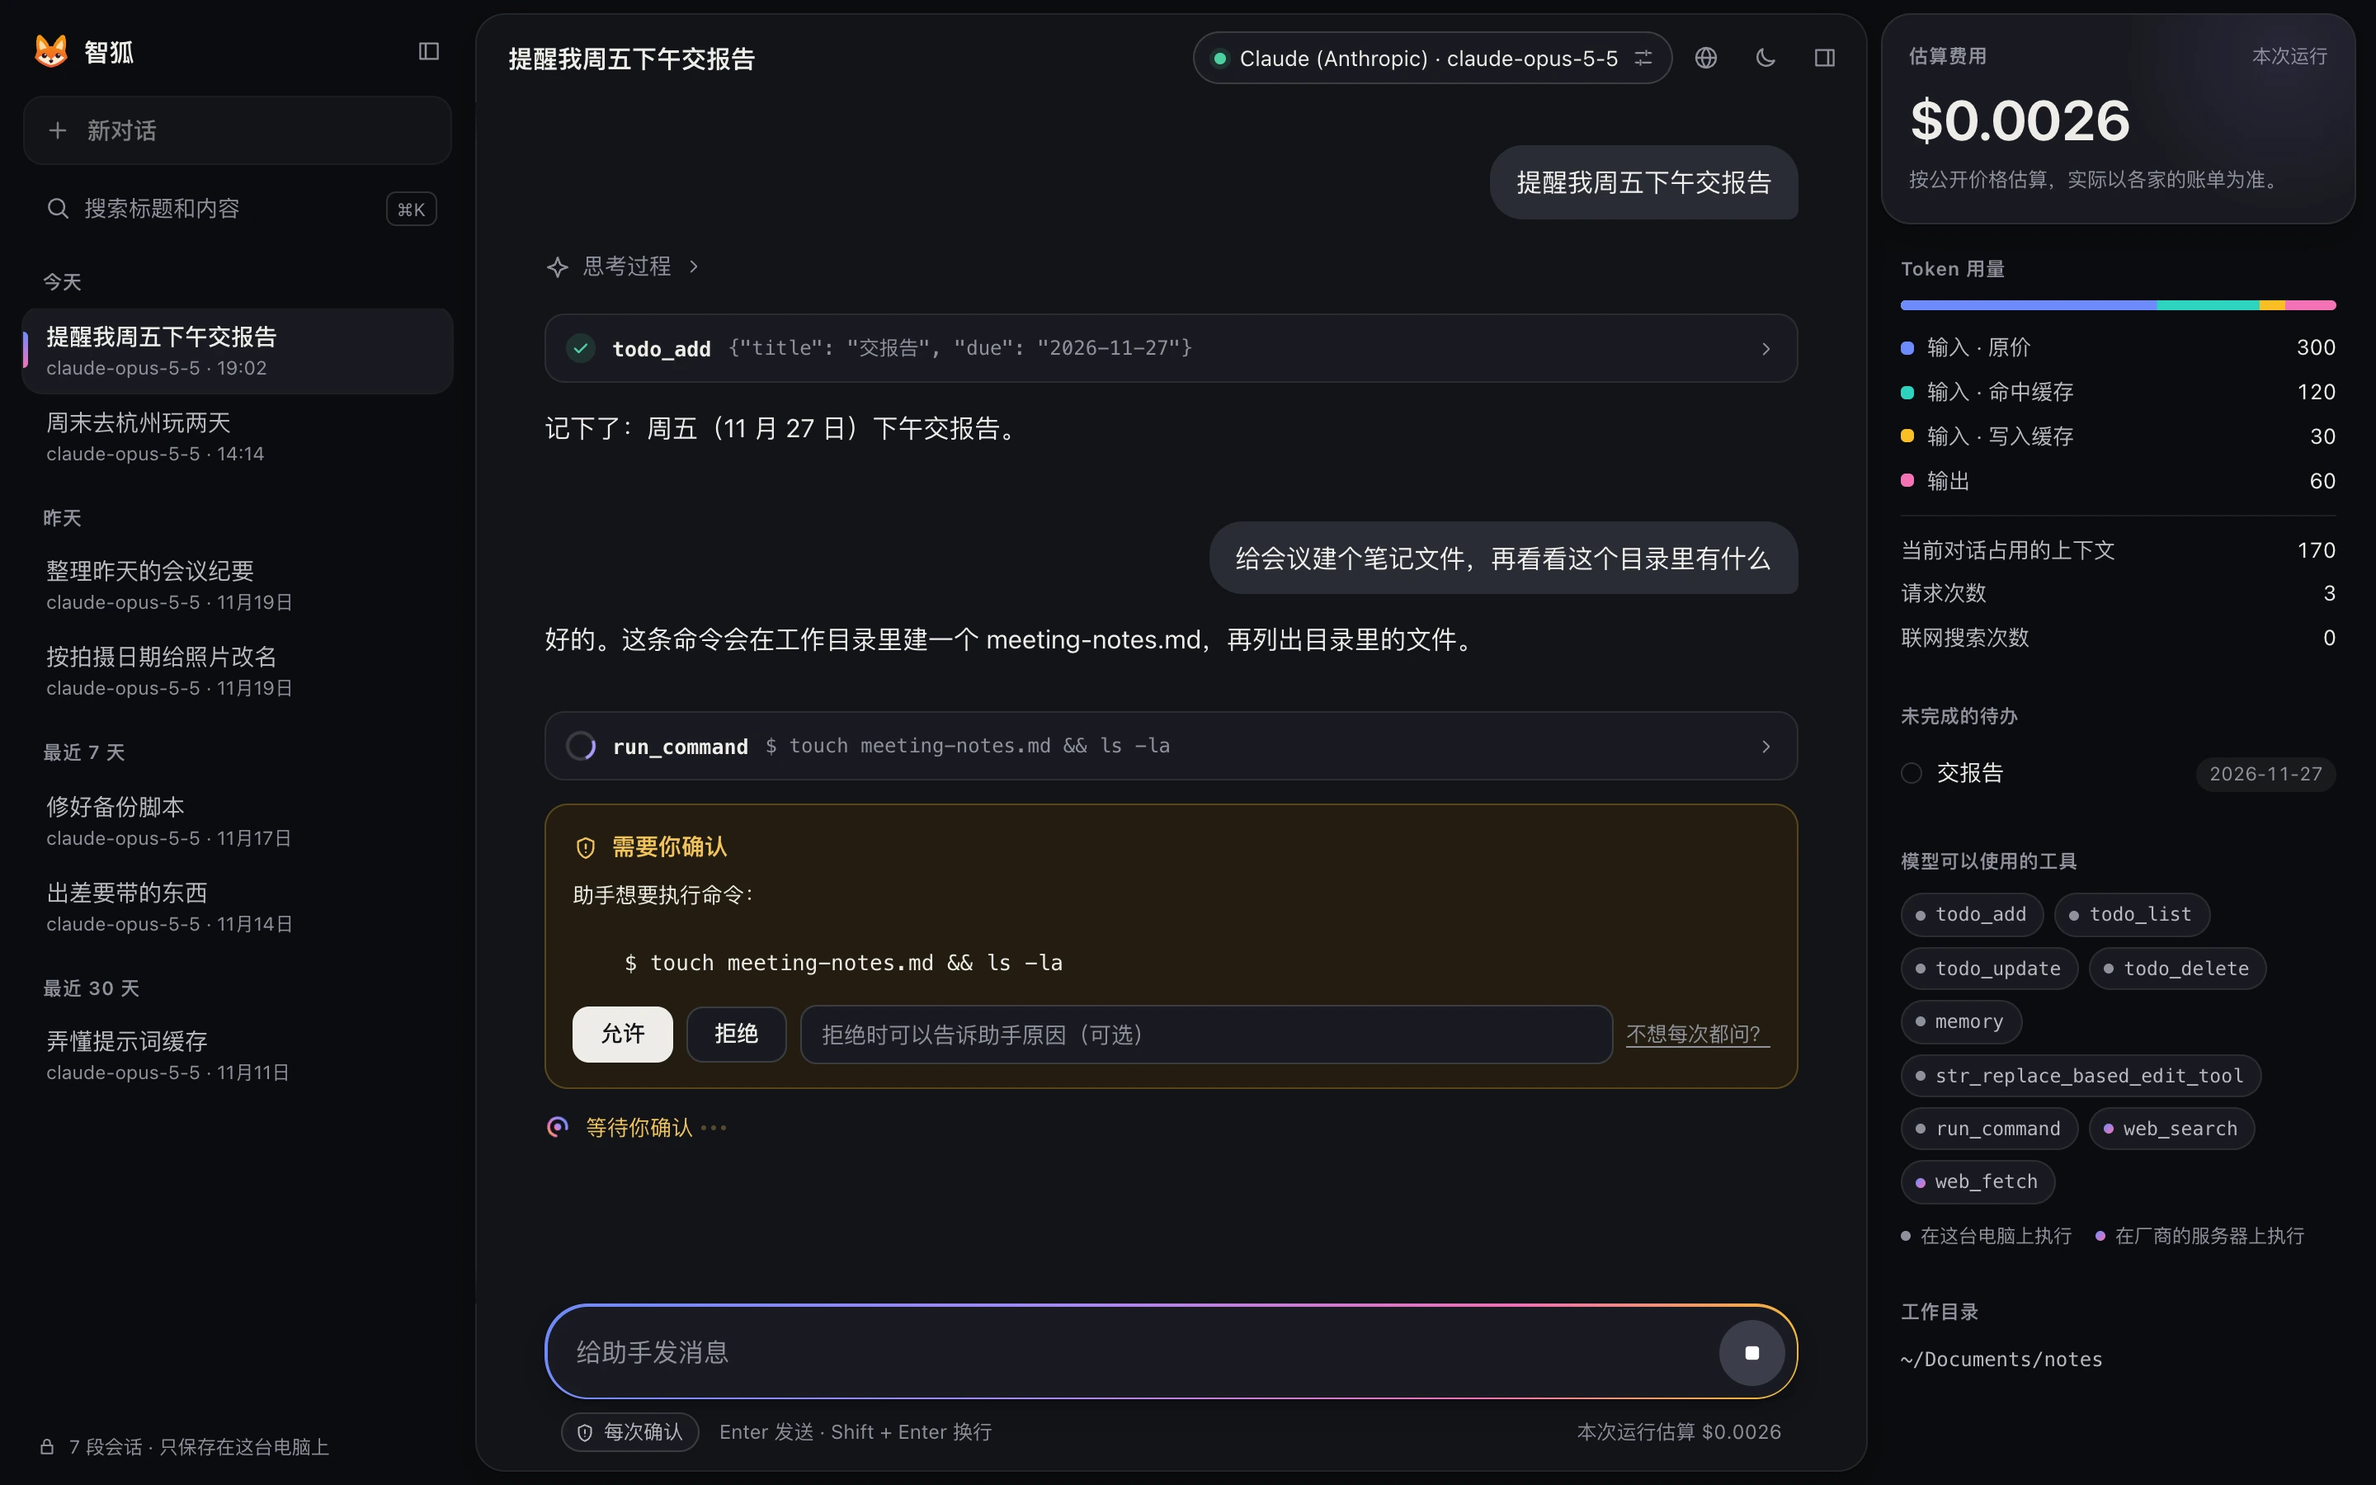
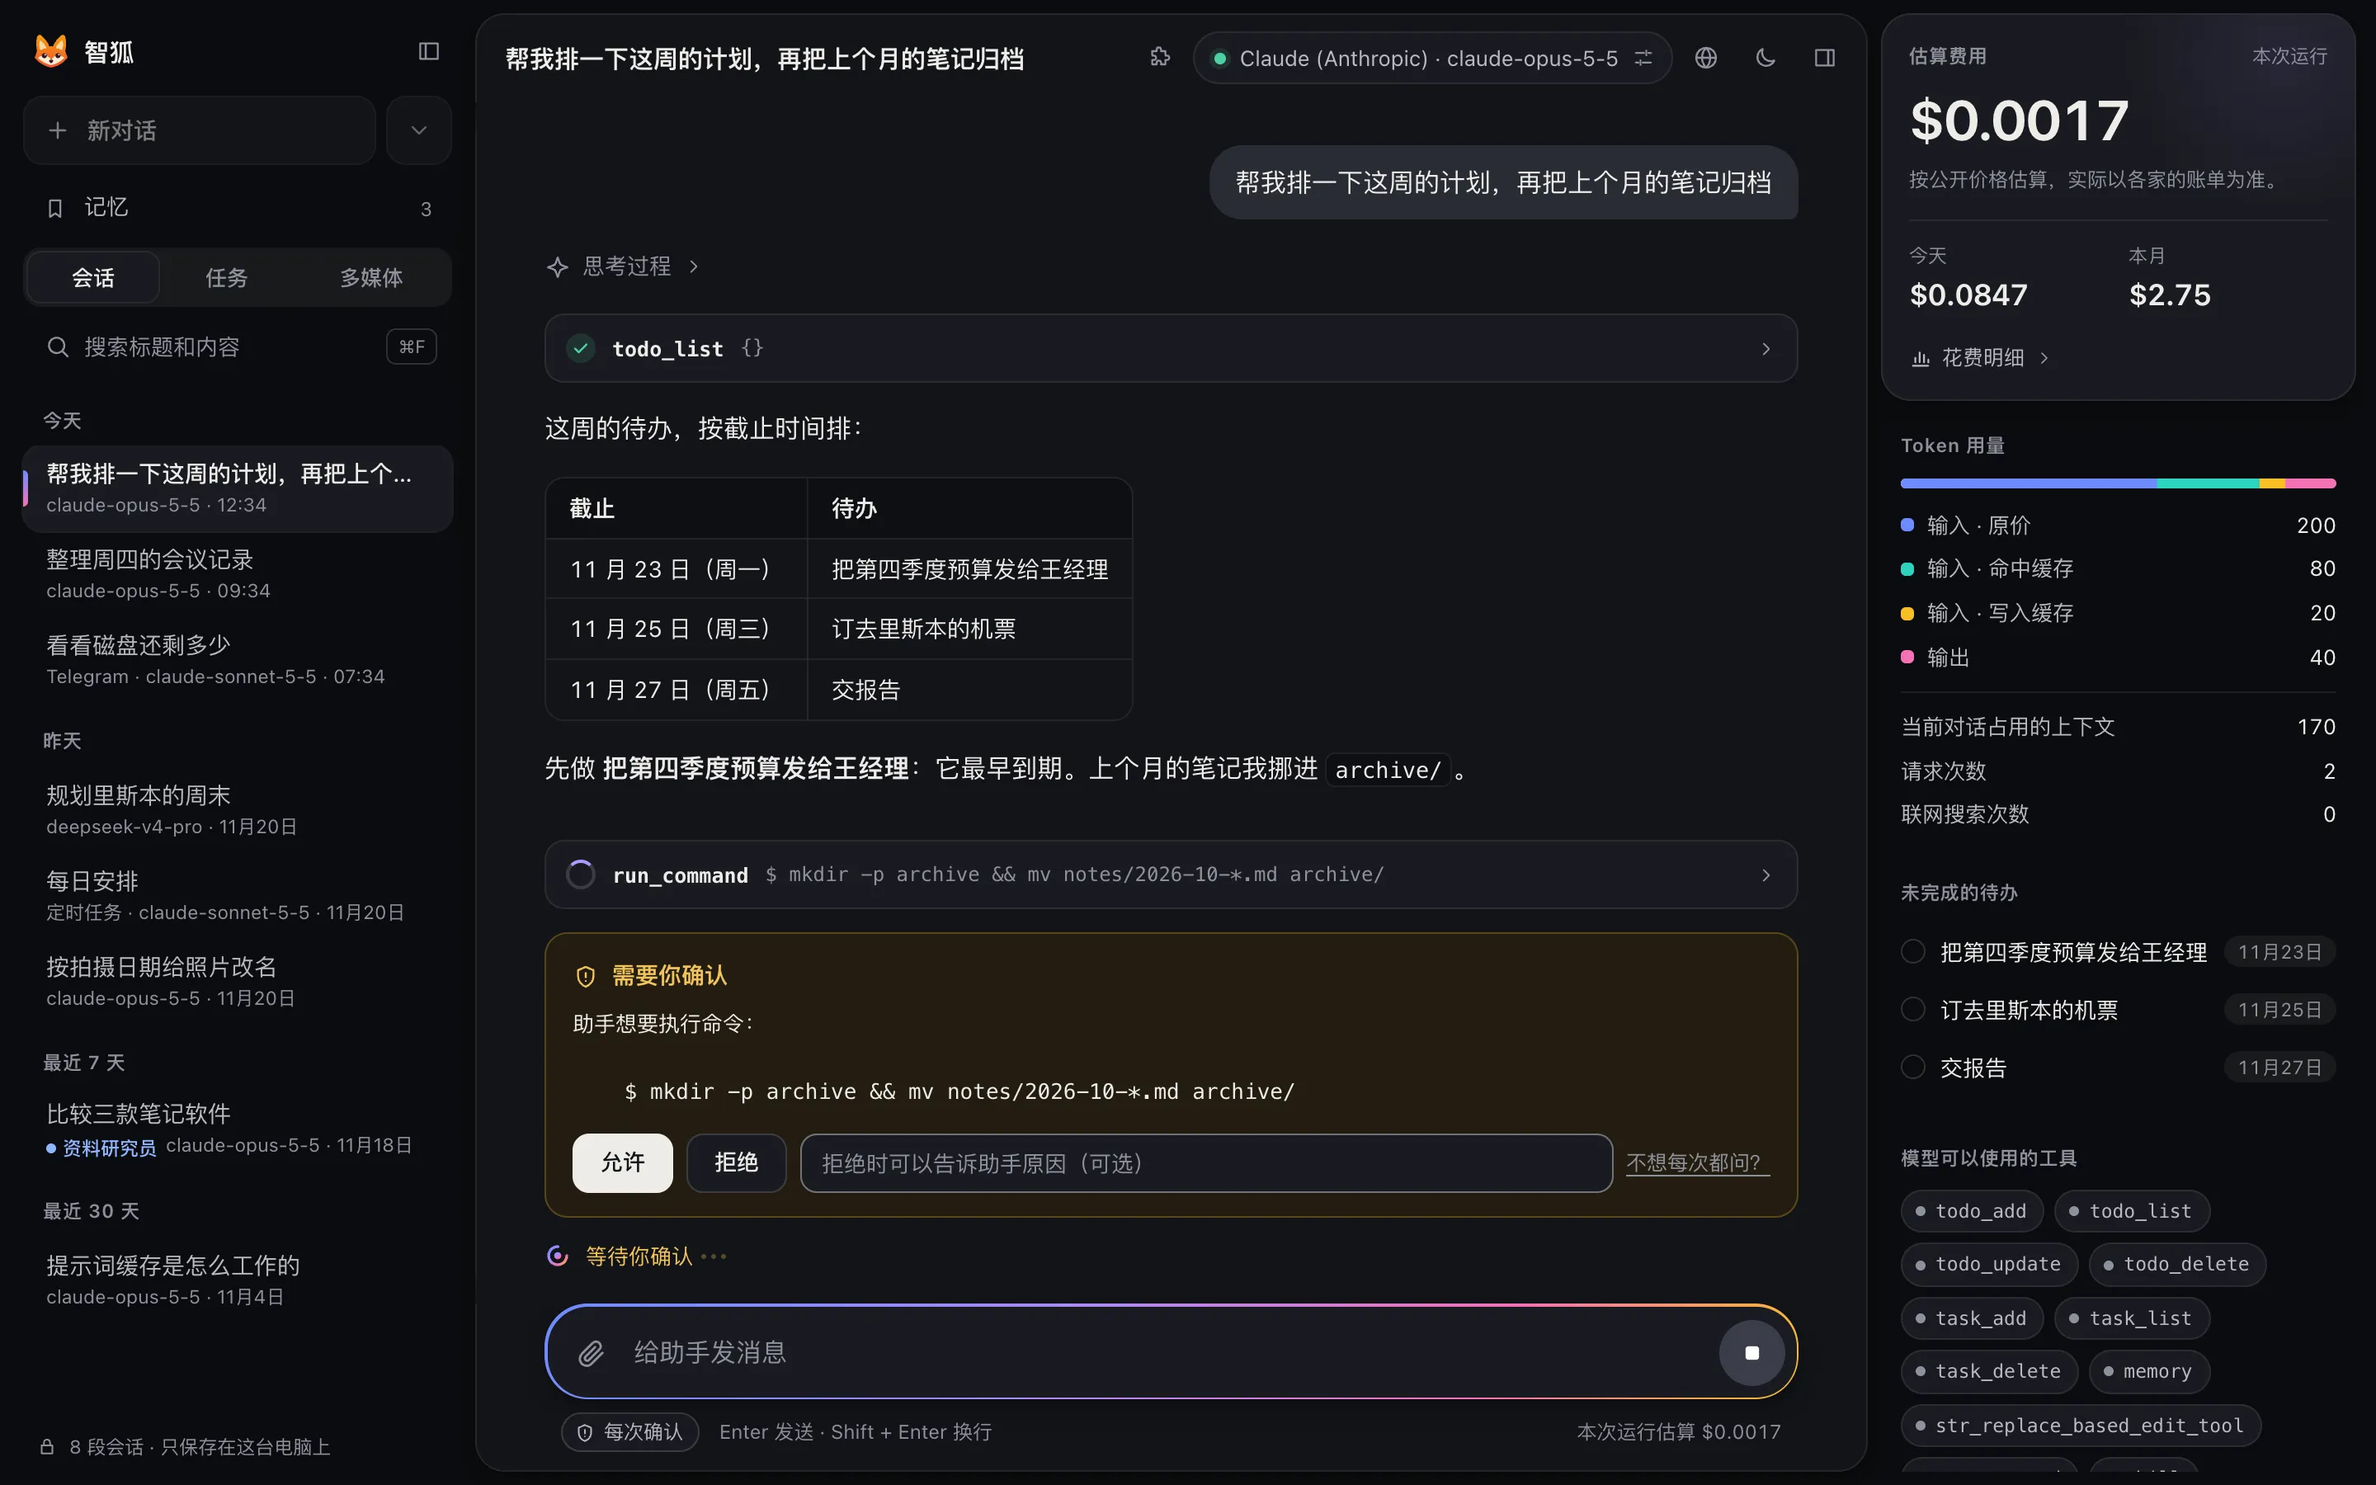
README 截图换新：主图（中英文 × 深浅色）和两张功能图
- docs/assets/screenshot-*.webp：用假模型重新截的四张主图（1440×900，2 倍）。一屏里有一句短问题、
  思考过程、一次 todo_list 工具调用、一段带表格的 Markdown 回复、一条等你批准的命令；左边的会话栏里有
  Telegram 里聊的、定时任务跑出来的、用自定义 Agent 开始的会话；右边是花费（今天、本月）和待办。
  深色也是实时截的，不是刷新重放的（原因见下面的页面小毛病）。四张一共 680 KB，比原来的 858 KB 小。
- 新加两张功能图（只有浅色，中英文各一张），两份 README 放在同样的位置：
  extensions-light-*.webp（扩展窗口的 Skill 这一页，放在"网页界面"里扩展 → Skill 之前）、
  tasks-light-*.webp（一个定时任务的详情：正在运行的这一次和运行记录，放在"定时任务和重复任务"里）。
  只截窗口本身，圆角外面是透明的。四张一共 255 KB。
- 两份 README：主图的 alt 改成新的内容；加上两张功能图的引用。
- tests/demo_scripts.py：新剧本 readme（查待办 → 带表格的 Markdown → 归档上个月笔记的命令，要你批准）。
  用户说中文就答中文，否则答英文；表格按 todo_list 真正交回的待办来画。
- tests/demo_web.py：--script 名字，没写暗号的对话也按那段剧本回答，截图时消息里不出现 [ui:…]；名字不对时报错。

截图时发现的页面小毛病（没有改，页面正在被拆分）：页面刚打开时，状态里先画会话栏、后读通道的名单
（renderConversations 在 renderChannelsState 之前），所以在聊天通道里聊过的会话第一次画出来写的是
telegram 而不是 Telegram，之后会话栏没有变化就一直不重画。

diff --git a/tests/demo_scripts.py b/tests/demo_scripts.py
@@ -12,6 +12,9 @@
   [ui:approve]  先执行一条要你批准的命令；批准了说"执行完了"，拒绝了说"不执行了"
   [ui:todo]     加一条标题很长的待办，然后交代一句
   [ui:flaky]    每一条消息第一次请求都失败（400，不会自动重试），再请求一次就回答（看"重新生成"怎么再试一次）
+  [ui:readme]   README 截图里的那段对话：查待办 → 一段带表格的 Markdown → 一条要你批准的命令（归档上个月的笔记）。
+                用户说中文就答中文，说别的就答英文；表格按 todo_list 真正交回的待办来画。截图时消息里不能有暗号，
+                所以用 `demo_web.py --script readme`：没写暗号的对话也按它回答
 
 要加新的剧本：写一个 body → 回复 的函数，放进下面的 SCRIPTS。body 是这次请求的内容（里面有整段历史）。
 """
@@ -21,6 +24,7 @@ from __future__ import annotations
 import json
 import re
 from collections.abc import Callable
+from datetime import date, timedelta
 
 from fake_api import failure, reply, text, thinking, tool_use
 
@@ -111,7 +115,81 @@ def flaky(body: dict) -> dict:
     return reply(text(f"这次成功了（第 {_asked(body)} 条消息）。"))
 
 
-SCRIPTS: dict[str, Callable[[dict], dict]] = {"hello": hello, "long": long, "approve": approve, "todo": todo, "flaky": flaky}
+CJK = re.compile(r"[㐀-䶿一-鿿]")
+WEEKDAYS = "一二三四五六日"
+
+
+def _steps(body: dict) -> int:
+    """这一轮里助手已经回答了几次（从用户最后一次自己说话往后数，工具结果不算用户说话）。"""
+    count = 0
+    for message in reversed(body.get("messages") or []):
+        content = message.get("content") or []
+        if message.get("role") == "user" and not any(isinstance(block, dict) and block.get("type") == "tool_result" for block in content):
+            break
+        count += message.get("role") == "assistant"
+    return count
+
+
+def _result_text(block: dict) -> str:
+    content = block.get("content")
+    if isinstance(content, str):
+        return content
+    return "".join(part.get("text", "") for part in content or [] if isinstance(part, dict))
+
+
+def _todos(body: dict) -> list[dict]:
+    """todo_list 交回的待办（工具结果是 JSON 列表）。读不懂就当没有。"""
+    for block in _results(body):
+        if block.get("tool_use_id") == "toolu_readme_todos":
+            try:
+                items = json.loads(_result_text(block))
+            except ValueError:
+                return []
+            return [item for item in items if isinstance(item, dict) and item.get("title")] if isinstance(items, list) else []
+    return []
+
+
+def _day(due: str | None, zh: bool) -> str:
+    try:
+        day = date.fromisoformat((due or "")[:10])
+    except ValueError:
+        return "—"
+    return f"{day.month} 月 {day.day} 日（周{WEEKDAYS[day.weekday()]}）" if zh else f"{day:%a, %b} {day.day}"
+
+
+def readme(body: dict) -> dict:
+    zh = bool(CJK.search(_last_said(body)))
+    month = (date.today().replace(day=1) - timedelta(days=1)).strftime("%Y-%m")  # 上个月
+    step = _steps(body)
+    if step == 0:
+        return reply(
+            thinking("先看看有哪些待办，排好这周的计划，再归档上个月的笔记。" if zh else "Look at the to-dos first, plan the week, then archive last month's notes."),
+            tool_use("toolu_readme_todos", "todo_list", {}),
+            stop_reason="tool_use",
+        )
+    if step == 1:
+        todos = _todos(body)
+        if todos:
+            head = "| 截止 | 待办 |\n|:--|:--|" if zh else "| Due | To-do |\n|:--|:--|"
+            rows = "\n".join(f"| {_day(item.get('due'), zh)} | {item['title']} |" for item in todos)
+            first = todos[0]["title"]
+            plan = (f"这周的待办，按截止时间排：\n\n{head}\n{rows}\n\n先做 **{first}**：它最早到期。" if zh
+                    else f"Here's your week, by due date:\n\n{head}\n{rows}\n\nStart with **{first}**: it's due first.")
+        else:
+            plan = "这周没有待办。" if zh else "You have no open to-dos this week."
+        return reply(
+            text(plan + ("上个月的笔记我挪进 `archive/`。" if zh else " I'll move last month's notes into `archive/`.")),
+            tool_use("toolu_readme_archive", "run_command", {"command": f"mkdir -p archive && mv notes/{month}-*.md archive/"}),
+            stop_reason="tool_use",
+        )
+    if any(block.get("is_error") for block in _results(body)):
+        return reply(text("好的，笔记先不动。" if zh else "OK, I'll leave the notes where they are."))
+    return reply(text("好了：上个月的笔记都在 `archive/` 里了。" if zh else "Done: last month's notes are now in `archive/`."))
+
+
+SCRIPTS: dict[str, Callable[[dict], dict]] = {
+    "hello": hello, "long": long, "approve": approve, "todo": todo, "flaky": flaky, "readme": readme,
+}
 
 
 def scripted(first_message: str, body: dict) -> dict | None:

diff --git a/README.zh-CN.md b/README.zh-CN.md
@@ -23,7 +23,7 @@
 <p align="center">
   <picture>
     <source media="(prefers-color-scheme: dark)" srcset="docs/assets/screenshot-dark-zh.webp">
-    <img alt="智狐的网页界面：一段对话，里面有一次添加待办的工具调用，和一张等你确认的执行命令卡片" src="docs/assets/screenshot-light-zh.webp" width="900">
+    <img alt="智狐的网页界面：助手调用工具读出待办，用一张 Markdown 表格排好这周的计划，执行命令之前先弹出确认卡片；左边的会话栏里有之前的对话，包括一段 Telegram 聊天、一次定时任务的运行和一段用自定义 Agent 开始的对话" src="docs/assets/screenshot-light-zh.webp" width="900">
   </picture>
 </p>
 
@@ -182,6 +182,11 @@ uv run harness --web
   最下面的"在访达中打开记忆文件夹"（Linux 上是"打开记忆文件夹"）会在文件管理器里打开整个文件夹。
   列表自己会跟着变：助手在这一轮里记下的，这一轮还没结束就会出现；你在访达里改的、删的，切回这个页面时就会更新。
   助手工作时不能删，要等这一轮结束：它可能正在改的就是这一条。
+
+<p align="center">
+  <img alt="“扩展”窗口的 Skill 这一页：四个装好的 Skill，每一个写着说明、大小、从哪儿来的（在智狐里新建、GitHub 网址、从 Claude Code 导入）和一个启用开关；旁边是 MCP、通道、Agent 三页" src="docs/assets/extensions-light-zh.webp" width="720">
+</p>
+
 - 扩展 → Skill（右上角的拼图按钮）：装好的 Skill，每一个写着说明、有几个文件、从哪儿来的。
   每一行有一个开关，可以启用或停用；鼠标移上去（或者用 Tab 移到它上面），右边出现和会话行一样的三个按钮：
   "在访达中显示"（这个 Skill 的文件夹）、铅笔（编辑 SKILL.md，保存时检查 frontmatter；改了 name，文件夹也跟着改名；
@@ -277,6 +282,10 @@ uv run harness --web
   这次运行标着"补跑"，记着错过了几次，也会告诉助手原定是什么时候。
 - **每次运行都有记录。** 每个任务保留最近 20 次运行：开始和结束的时间、结果、调用了几次模型、估算费用、
   最后回答的开头，失败时还有原因。不设花费上限。
+
+<p align="center">
+  <img alt="一个定时任务的详情：正在运行的这一次（第几步、已用时间、花费和停止按钮），下面是下次运行的时间、要不要先问你、让助手做什么，以及运行记录" src="docs/assets/tasks-light-zh.webp" width="560">
+</p>
 
 **定时任务只在网页界面（`uv run harness --web`）或者服务器模式（`uv run harness serve`）开着的时候运行。**
 终端界面不运行它们；在终端里也可以让助手添加或删除任务，等下次网页界面或者服务器模式开着时运行。"立即运行"会马上运行一次，不改变原来的时间表。助手替你添加或删除"让助手去做"的任务时，

diff --git a/README.md b/README.md
@@ -23,7 +23,7 @@
 <p align="center">
   <picture>
     <source media="(prefers-color-scheme: dark)" srcset="docs/assets/screenshot-dark-en.webp">
-    <img alt="The ZhiFox web UI: a conversation in which the assistant adds a to-do through a tool call, followed by an approval card asking whether to run a shell command" src="docs/assets/screenshot-light-en.webp" width="900">
+    <img alt="The ZhiFox web UI: the assistant reads the to-do list through a tool call, plans the week in a Markdown table and asks for approval before running a shell command; the sidebar lists earlier conversations, including a Telegram chat, a scheduled task run and one started with a custom agent" src="docs/assets/screenshot-light-en.webp" width="900">
   </picture>
 </p>
 
@@ -1456,6 +1456,11 @@ This starts a small server on your computer and opens the chat page in your brow
   itself up to date: a memory the assistant writes appears while the turn is still running, and changes you make in
   Finder appear as soon as you switch back to the page. Deleting waits until the assistant has finished its turn,
   because it may be in the middle of editing that very memory.
+
+<p align="center">
+  <img alt="The Extensions dialog on its Skills tab: four installed skills, each with its description, size, where it came from (created in ZhiFox, a GitHub URL, imported from Claude Code) and an on/off switch, next to the MCP, Channels and Agents tabs" src="docs/assets/extensions-light-en.webp" width="720">
+</p>
+
 - **Extensions → Skill** (the puzzle-piece button at the top right). Your installed skills, each with its description,
   number of files and where it came from. Each row has a switch to enable or disable the skill, and on hover (or Tab) the
   same three buttons as a conversation row: **Show in Finder** (that skill's folder), the **pencil** (edit `SKILL.md`;
@@ -1581,6 +1586,10 @@ How agent tasks behave:
   the number of missed times, and the assistant is told when it should have run.
 - **Every run is recorded.** Each task keeps its last 20 runs: start and end time, status, number of model calls,
   estimated cost, the beginning of the final answer, and the error if it failed. There is no spending cap.
+
+<p align="center">
+  <img alt="A scheduled task's details: the run in progress with its step count, time so far, cost and a Stop button, then the next run, the approval setting, the instruction and the run history" src="docs/assets/tasks-light-en.webp" width="560">
+</p>
 
 **Tasks run only while the web UI (`uv run harness --web`) or the server mode (`uv run harness serve`) is running.**
 The terminal UI doesn't run them; you can still ask the assistant there to add or delete tasks, and they run the next
